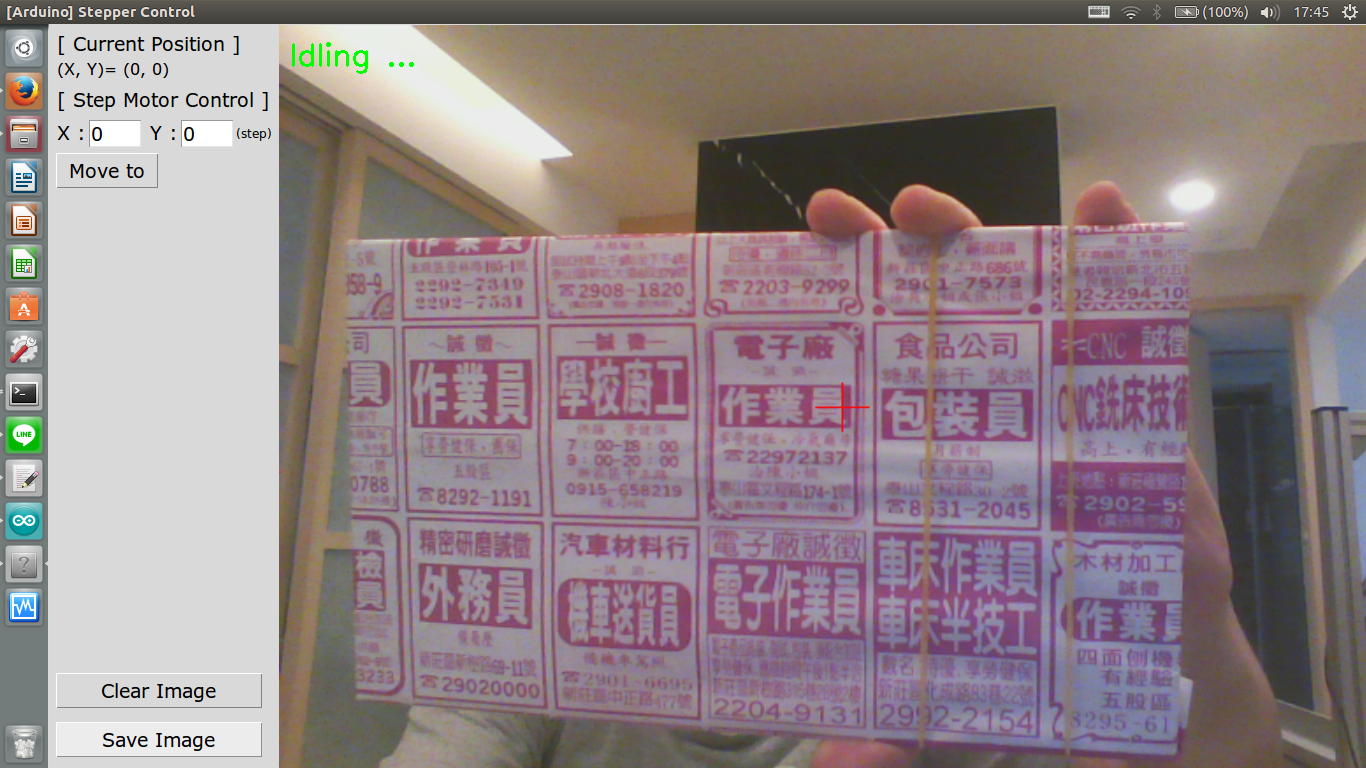
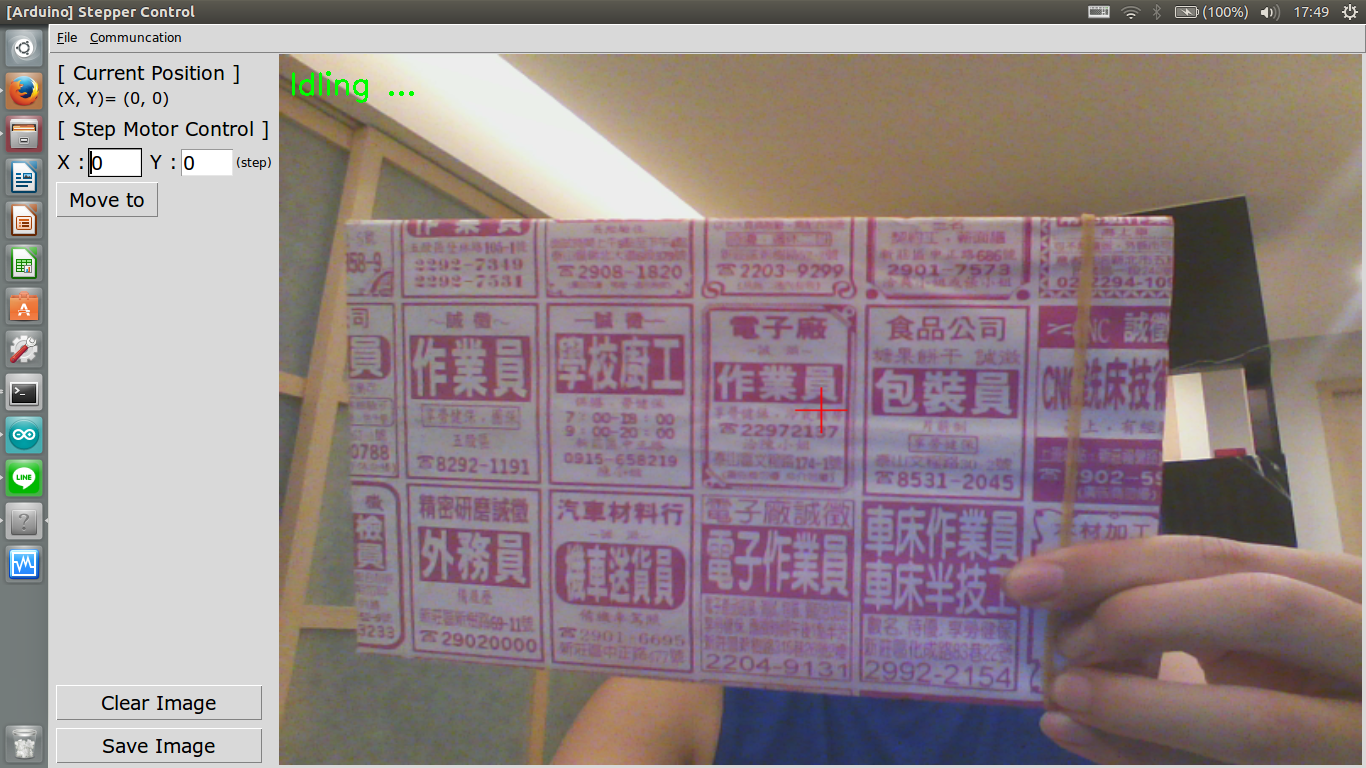
1. menubar added 2. connect to arduino function

diff --git a/gui_main.py b/gui_main.py
@@ -20,17 +20,29 @@ class App:
     def __init__(self , queue, frame , width , height , root):
         self.ArdMntr= MonitorThread()
         self.ArdMntr.start()
+            
         myfont14 = tkFont.Font(family="Verdana", size=14)
         myfont12 = tkFont.Font(family="Verdana", size=12)
+        myfont10 = tkFont.Font(family="Verdana", size=10)
         self.root = root
         
         self.screen_width, self.screen_height = width, height
-        #self.frame_width, self.frame_height= int(width*0.79), height
         btn_width, btn_height= 15, 1
         self.interval_x, self.interval_y= 6, 6
         #print width,',', height,' ; ',btn_width,',', btn_height
         
-        # ====== Configuration ============
+        # ====== [Config] Menu Bar============
+        self.menubar= Tkinter.Menu(self.root)
+        self.FileMenu = Tkinter.Menu(self.menubar, tearoff=0)
+        self.menubar.add_cascade(label="File",underline=0, menu=self.FileMenu)
+        self.FileMenu.add_command(label="Save Image", command=self.btn_saveImg_click)
+        self.ConnectMenu = Tkinter.Menu(self.menubar, tearoff=0)
+        self.ConnectMenu.add_command(label="Connect to Arduino", command=self.set_ArdConnect)
+        self.menubar.add_cascade(label="Communcation", underline= 0, menu=self.ConnectMenu)
+
+        self.root.config(menu= self.menubar)
+        self.root.update()
+        # ====== [Config] Button ===========
         self.lbl_CurrCoord= Tkinter.Label(self.root, text="[ Current Position ]",     font= myfont14)
         self.lbl_CurrCoord.place(x= self.interval_x, y= self.interval_y)
         self.root.update()
@@ -62,16 +74,16 @@ class App:
         self.btn_MoveTo.place(x= self.lbl_Xpos.winfo_x(), y=self.lbl_Ypos.winfo_y()+ self.lbl_Ypos.winfo_height()+ self.interval_y)
         self.root.update()
 
-        self.btn_clear= Tkinter.Button(self.root, text='Clear Image', command= self.btn_clear_click,font= myfont14, width= btn_width, height= btn_height)
-        #self.btn_clear.grid(row=0, column=1, sticky = Tkinter.W)
-        self.btn_clear.place(x= self.lbl_MoveCoord.winfo_x(), y= self.screen_height- 120)
-        self.root.update()
         self.btn_saveImg= Tkinter.Button(self.root, text='Save Image', command= self.btn_saveImg_click,font= myfont14, width= btn_width, height= btn_height)
-        self.btn_saveImg.place(x= self.lbl_MoveCoord.winfo_x(), y= self.screen_height- btn_height- 70)
+        self.btn_saveImg.place(x= self.lbl_MoveCoord.winfo_x(), y= self.screen_height-self.FileMenu.winfo_reqheight()-self.btn_MoveTo.winfo_reqheight()-self.interval_y*6)
         self.root.update()
-
+        
+        self.btn_clear= Tkinter.Button(self.root, text='Clear Image', command= self.btn_clear_click,font= myfont14, width= btn_width, height= btn_height)
+        self.btn_clear.place(x= self.lbl_MoveCoord.winfo_x(), y= self.btn_saveImg.winfo_y()- self.btn_saveImg.winfo_height()- self.interval_y)
+        self.root.update()
+        
         #===== Image Frame ======
-        self.frame_width, self.frame_height= self.screen_width-self.lbl_MoveCoord.winfo_width()- self.interval_x*4, height-5
+        self.frame_width, self.frame_height= self.screen_width-self.lbl_MoveCoord.winfo_width()- (self.interval_x*11), self.screen_height-self.FileMenu.winfo_reqheight()-self.interval_y*6
         frame= cv2.resize(frame,(self.frame_width,self.frame_height),interpolation=cv2.INTER_LINEAR)
         result = Image.fromarray(frame)
         result = ImageTk.PhotoImage(result)
@@ -103,11 +115,16 @@ class App:
             self.root.destroy()
 
     def UI_callback(self):
-        tmp_text= '(X, Y)= ('+self.ArdMntr.cmd_state.strCurX+', '+self.ArdMntr.cmd_state.strCurY+')'
+        if self.ArdMntr.connect== True:
+            tmp_text= '(X, Y)= ('+self.ArdMntr.cmd_state.strCurX+', '+self.ArdMntr.cmd_state.strCurY+')'
+        else:
+            tmp_text='Arduino Connection Refuesed!'
+
         self.lbl_CurrPos.config(text= tmp_text)
         self.lbl_CurrPos.after(10,self.UI_callback)
-        #if self.ArdMntr.cmd_state.is_ready():
-            #return 0
+    
+    def set_ArdConnect(self):
+        self.ArdMntr.connect_serial()
 
     def store(self):
         data = dict()
@@ -118,7 +135,6 @@ class App:
         with open("detect_area.json" , 'w') as out:
             json.dump(data , out)
         print "detect area set"
-        #self.scales.destroy()
 
     def set_frame(self, frame):
         self.frame= frame
@@ -126,13 +142,11 @@ class App:
     
     def btn_saveImg_click(self):
         self.saveImg= True
-        #cv2.imwrite('Frame1.png',frame)
 
     def btn_MoveTo_click(self):
         try:
             Target_X= int(self.entry_Xpos.get())
             Target_Y= int(self.entry_Ypos.get())
-            #print Target_X, ' , ', Target_Y 
             if (Target_X>=0) & (Target_X<=8000) & (Target_Y>=0) & (Target_Y<=9500):
                 cmd= 'G00 X{0} Y{1}'.format(Target_X, Target_Y)
                 self.ArdMntr.serial_send(cmd)
@@ -158,42 +172,45 @@ class App:
 
 
     def check_queue(self):
+        '''	
         try:
             frame = self.queue.get(block=False)
         except Queue.Empty:
             pass
         else:
-            angle_beg=0
-            angle_end=0
-            frame = self.mark_cross_line(frame)
-	    frame= cv2.resize(frame,(self.frame_width,self.frame_height),interpolation=cv2.INTER_LINEAR)
-
-            if self.saveImg== True:
-                tmp= cv2.cvtColor(frame, cv2.COLOR_RGB2BGR)
-                cv2.imwrite('Frame1.png',tmp)
-                self.saveImg= False
-            text=''
+	    angle_beg=0
+        '''
+        angle_end=0
+        #frame = self.mark_cross_line(frame)
+        frame = self.mark_cross_line(self.frame)
+	frame= cv2.resize(frame,(self.frame_width,self.frame_height),interpolation=cv2.INTER_LINEAR)
+	
+        if self.saveImg== True:
+            tmp= cv2.cvtColor(frame, cv2.COLOR_RGB2BGR)
+            cv2.imwrite('Frame1.png',tmp)
+            self.saveImg= False
+        text='Arduino Connection Refused ...'
+        color= (0,0,0)
+        if self.ArdMntr.connect== True:
             if self.ArdMntr.cmd_state.is_ready():
                 text= 'Idling ...'
                 color = (0 , 255 , 0)
             else:
                 text= 'Moving ...'
                 color = (255,0,0)
-            #text= text + '('+self.ArdMntr.cmd_state.strCurX+', '+self.ArdMntr.cmd_state.strCurY+')'
-            cv2.putText(frame, text,(10,40),cv2.FONT_HERSHEY_SIMPLEX, 1,color,2)
-            result = Image.fromarray(frame)
-            result = ImageTk.PhotoImage(result)
-            self.panel.configure(image = result)
-            self.panel.image = result
+        cv2.putText(frame, text,(10,40),cv2.FONT_HERSHEY_SIMPLEX, 1,color,2)
+        result = Image.fromarray(frame)
+        result = ImageTk.PhotoImage(result)
+        self.panel.configure(image = result)
+        self.panel.image = result
         self.panel.after(1, self.check_queue)
 
 def queue_create(queue, running , app , cap):
-    #global cap
     while running:
         ret , frame = cap.read()
         frame = cv2.cvtColor(frame , cv2.COLOR_BGR2RGB)
-        queue.put(frame)
-        #app.set_frame(frame)
+        #queue.put(frame)
+        app.set_frame(frame)
         time.sleep(0.01)
 
 def run(cap):
@@ -206,7 +223,7 @@ def run(cap):
 
     queue = Queue.LifoQueue(5)
     ret , frame = cap.read()
-    
+    print root.winfo_screenwidth() ,', ', root.winfo_screenheight()    
     app = App(queue , frame, root.winfo_screenwidth() , root.winfo_screenheight(), root)
     app.panel.bind('<Destroy>', lambda x: (running.pop(), x.widget.destroy()))
 

diff --git a/ArduinoSerMntr.py b/ArduinoSerMntr.py
@@ -82,13 +82,25 @@ class MonitorThread(threading.Thread):
         self.event = threading.Event()
         self.wait = wait
         self.exit = False
+        self.connect = True
         try:
             self.ser = Serial('/dev/ttyACM0', 115200, timeout=1) #FIXME, change device id to your system device
         except:
             print 'Connection of Arduino refused!'
             tkMessageBox.showerror("Error","Connection of Arduino refused!")
-        
+            self.connect= False        
         self.cmd_state = CmdState()
+
+    def connect_serial(self):
+        if not(self.connect):
+            try:
+                self.ser = Serial('/dev/ttyACM0', 115200, timeout=1) #FIXME, cha    nge device id to your system device
+                self.connect= True
+            except:
+                print 'Connection of Arduino refused!'
+                tkMessageBox.showerror("Error","Connection of Arduino refused!")
+        else: 
+            tkMessageBox.showerror("Error","Connection of Arduino is already built!")
 
     def set_ts(self, ts):
         self.wait = ts
@@ -104,11 +116,17 @@ class MonitorThread(threading.Thread):
     
     def run(self):
         while 1:
+            if self.connect:
+                try:
+                    self.do_function()
+                    self.event.wait(self.wait)
+                except:
+                    self.connect= False
+            else:
+                time.sleep(0.1)
+            
             if self.exit:
                 break
-                # Wait for a connection
-            self.do_function()
-            self.event.wait(self.wait)
 
     def serial_send(self,send_str):
         sys.stdout.write("[%s]\n" % send_str)

diff --git a/README.md b/README.md
@@ -1,5 +1,6 @@
 ### StepperControl
 The python code with GUI to load  from and send command to Aruduino
+> The communication between Arduino and PC will be automatically built in the beginning. If the connection is failed, it can be re-built again by clicking the 'Connect to Arduino' button in menubar
 ```command line: 
 python gui_main.py
 ```
